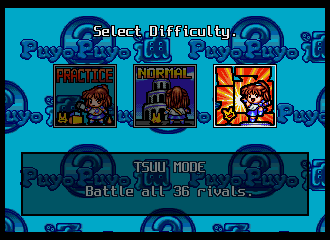
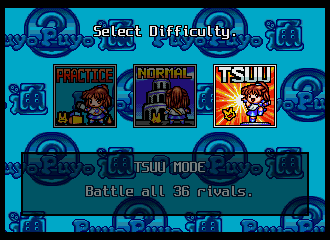
Saturn Tsuu card: TSUU over the rebuilt burst
The kanji was cut out of the card's burst; the burst is refilled along its rays, Arle and Carbuncle are kept whole, TSUU is lettered in white with a grey-blue base, and the thin inner black border the other cards have is restored.

diff --git a/tools/saturn_ui.py b/tools/saturn_ui.py
@@ -322,7 +322,7 @@ def _stamp_card(img, sprite, y0):
 
 
 def _patch_difficulty_cards(tiles, tmap):
-    """Translate Japanese text inside Practice (6,7) and Normal (16,7) art cards; keep iconic Tsuu kanji."""
+    """Translate the Japanese titles of the Practice (6,7), Normal (16,7) and Tsuu (26,7) art cards."""
     # 1. Practice card: remove 'れんしゅう' while preserving Arle's full hair/ponytail silhouette & solid outlines
     prac = gfx.block_pixels(tiles, tmap, (7 * 40 + 6) * 2, 8, 8, 40)
     prac_keep = {
@@ -428,6 +428,74 @@ def _patch_difficulty_cards(tiles, tmap):
         norm[y][x] = 1
     _stamp_card(norm, _render_card_word('NORMAL', 8, 10, 1, (15, 12, 12, 12, 9, 9)), 3)
     gfx.replace_block(tiles, tmap, (7 * 40 + 16) * 2, 8, 8, norm, row_stride=40, blank=0)
+
+    # 3. Tsuu card: the kanji is cut out of a red/orange/yellow/white (5/9/12/15) burst converging at
+    # (29, 36). Refill the whole burst along its own rays, keep Arle, Carbuncle and the pedestal, letter
+    # TSUU across the top in white with a grey-blue base, and restore the thin inner black border the
+    # big kanji had replaced (the Practice and Normal cards keep theirs).
+    tsuu = gfx.block_pixels(tiles, tmap, (7 * 40 + 26) * 2, 8, 8, 40)
+    burst = {5, 9, 12, 15}
+    inner = [(x, y) for y in range(3, 61) for x in range(3, 61)]
+
+    def near(mask, x, y):
+        return [mask[y + dy][x + dx] for dy in (-1, 0, 1) for dx in (-1, 0, 1) if dx or dy]
+
+    def outside(mask, seeds, box):
+        """pixels reachable from seeds through pixels not in mask, inside box (x0, y0, x1, y1)"""
+        x0, y0, x1, y1 = box
+        seen, todo = set(), list(seeds)
+        while todo:
+            x, y = todo.pop()
+            if (x, y) in seen or not (x0 <= x < x1 and y0 <= y < y1) or mask(x, y):
+                continue
+            seen.add((x, y))
+            todo += [(x + 1, y), (x - 1, y), (x, y + 1), (x, y - 1)]
+        return seen
+
+    # Arle and the pedestal: their own colours, white/yellow pixels mostly surrounded by them, the black
+    # outline touching them, and any hole inside that silhouette
+    keep = [[v not in burst | {0, 1} for v in row] for row in tsuu]
+    for _ in range(3):
+        keep = [[keep[y][x] or (0 < x < 63 and 0 < y < 63 and tsuu[y][x] in burst and sum(near(keep, x, y)) >= 4)
+                 for x in range(64)] for y in range(64)]
+    keep = [[keep[y][x] or (0 < x < 63 and 0 < y < 63 and tsuu[y][x] == 1 and any(near(keep, x, y)))
+             for x in range(64)] for y in range(64)]
+    free = outside(lambda x, y: keep[y][x], [(3, 3)], (3, 3, 61, 61))
+    for x, y in inner:
+        keep[y][x] = keep[y][x] or (x, y) not in free
+    # Carbuncle is drawn in the burst colours: keep whatever its black outline encloses, and that outline
+    box = (3, 40, 23, 58)
+    edge = [(x, y) for x in range(3, 23) for y in (40, 57)] + [(x, y) for y in range(40, 58) for x in (3, 22)]
+    out = outside(lambda x, y: tsuu[y][x] == 1, edge, box)
+    cb = {(x, y) for x in range(3, 23) for y in range(40, 58) if (x, y) not in out and tsuu[y][x] != 1}
+    for x in range(3, 23):
+        for y in range(40, 58):
+            if (x, y) in cb or (tsuu[y][x] == 1 and any((x + dx, y + dy) in cb for dx in (-1, 0, 1) for dy in (-1, 0, 1))):
+                keep[y][x] = True
+
+    new = [row[:] for row in tsuu]
+    for x, y in inner:
+        if keep[y][x]:
+            continue
+        dx, dy = x - 29, y - 36
+        ln = math.hypot(dx, dy) or 1
+        for step in range(80):                       # nearest burst pixel along the ray through (x, y)
+            hit = next((tsuu[yy][xx] for s in (1, -1)
+                        for xx, yy in [(round(x + s * dx / ln * step / 2), round(y + s * dy / ln * step / 2))]
+                        if 3 <= xx < 61 and 3 <= yy < 61 and tsuu[yy][xx] in burst), None)
+            if hit:
+                new[y][x] = hit
+                break
+    word = _render_card_word('TSUU', 12, 15, 1, (15, 15, 15, 15, 15, 14, 14, 14), outline=1)
+    word = labels.ring(word, 1, set(range(1, 16)))   # 2 px black outline over the busy burst
+    for y, row in enumerate(word):
+        for x, v in enumerate(row):
+            xx, yy = (64 - len(row)) // 2 + x, 2 + y
+            if v and 3 <= xx < 61 and 3 <= yy < 61 and not keep[yy][xx]:
+                new[yy][xx] = v
+    for i in range(2, 62):
+        new[2][i] = new[61][i] = new[i][2] = new[i][61] = 1
+    gfx.replace_block(tiles, tmap, (7 * 40 + 26) * 2, 8, 8, new, row_stride=40, blank=0)
 
 
 def apply_hpuyodt(hp):

diff --git a/tools/test_saturn.py b/tools/test_saturn.py
@@ -553,13 +553,16 @@ def test_real_disc():
                 assert len(data) <= saturn_arch.LOW_WRAM_SLOT
                 hp_new = saturn_arch.unpack_hpuyodt(data)
                 assert [len(c) for c in hp_new['chunks']] == orig_hp_lens
-                # Verify Practice (6,7) & Normal (16,7) cards translated with intact borders, Tsuu (26,7) untouched
-                for cx, expect_same in ((6, False), (16, False), (26, True)):
+                # Verify the Practice (6,7), Normal (16,7) and Tsuu (26,7) cards are translated with intact borders
+                for cx, expect_same in ((6, False), (16, False), (26, False)):
                     orig_c = gfx.block_pixels(hp['chunks'][19], hp['chunks'][20], (7 * 40 + cx) * 2, 8, 8, 40)
                     new_c = gfx.block_pixels(hp_new['chunks'][19], hp_new['chunks'][20], (7 * 40 + cx) * 2, 8, 8, 40)
                     assert (new_c == orig_c) == expect_same
-                    assert new_c[:3] == orig_c[:3] and new_c[61:] == orig_c[61:]
-                    assert all(nr[:3] == or_[:3] and nr[61:] == or_[61:] for nr, or_ in zip(new_c, orig_c))
+                    # outer frame untouched, inner border a solid black line (restored on Tsuu)
+                    assert new_c[:2] == orig_c[:2] and new_c[62:] == orig_c[62:]
+                    assert all(nr[:2] == or_[:2] and nr[62:] == or_[62:] for nr, or_ in zip(new_c, orig_c))
+                    assert all(new_c[i][j] == 1 for i in (2, 61) for j in range(2, 62))
+                    assert all(new_c[j][i] == 1 for i in (2, 61) for j in range(2, 62))
             elif name != '0':
                 assert len(data) <= saturn_arch.LOW_WRAM_SLOT
                 unpacked[name] = saturn_arch.unpack_bank(data)
